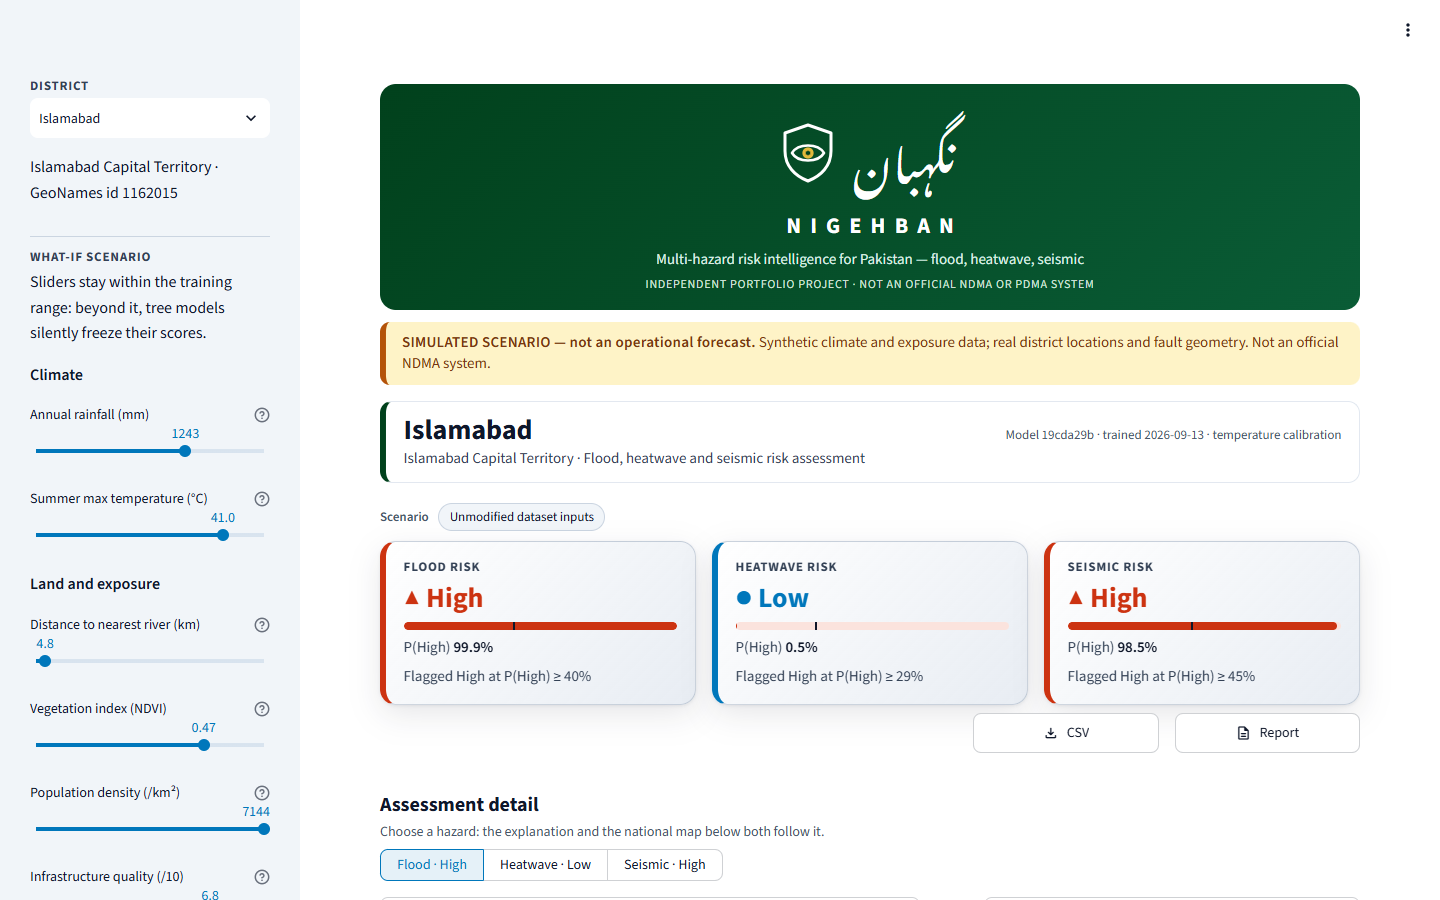
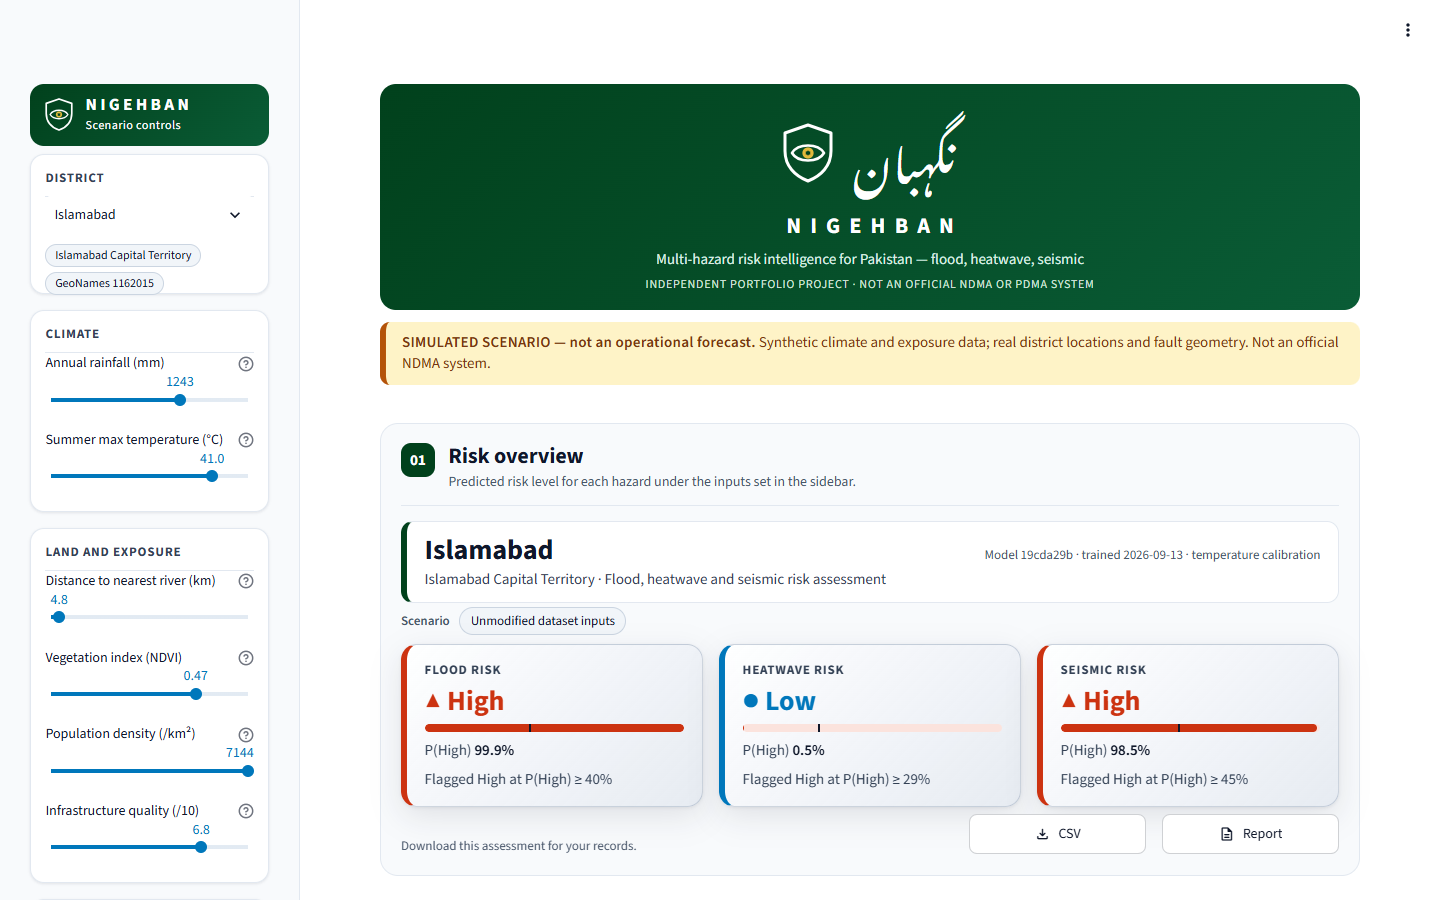
Re-audit fixes: phone hint, heading order, unverified-model alert, fresh screenshots
- Phone-only note pointing to the collapsed sidebar (AUDIT F5.4 claimed one; none existed)
- Single h1 (wordmark), h2 sections, h3 district bar; test that levels never skip
- Model loaded without a trusted digest is now a critical provenance issue
- README screenshots re-rendered from the current app
- AUDIT.md: re-audit table (L1, A1-A7) and checks that passed

diff --git a/ui_theme.py b/ui_theme.py
@@ -331,6 +331,10 @@ def page_css() -> str:
 @media (max-width: 640px) {{ [class*="st-key-panel_"] {{ padding: 0.8rem 0.75rem; }} }}
 [class*="st-key-section_"] .app-header {{ margin-bottom: 0; }}
 [class*="st-key-section_"] [data-testid="stTabs"] [data-baseweb="tab-list"] {{ gap: 0.25rem; }}
+/* Phones: Streamlit collapses the sidebar, so say where the controls are. Hidden on wider screens. */
+.phone-hint {{ display: none; background: {CHIP_BACKGROUND}; border: 1px solid {CHIP_BORDER}; color: {TEXT_PRIMARY};
+  border-radius: 10px; padding: 0.5rem 0.75rem; font-size: 14px; line-height: 1.45; }}
+@media (max-width: 640px) {{ .phone-hint {{ display: block; }} }}
 .toolbar-note {{ color: {TEXT_MUTED}; font-size: {SMALL_FONT_PX}px; padding-top: 0.55rem; }}
 
 /* ---- Sidebar ---- */
@@ -395,7 +399,7 @@ def brand_header_html() -> str:
         f"{emblem_svg()}"
         '<div class="brand-urdu" dir="rtl" lang="ur">نگہبان</div>'
         "</div>"
-        '<div class="brand-latin" lang="en">NIGEHBAN</div>'
+        '<div class="brand-latin" lang="en" role="heading" aria-level="1">NIGEHBAN</div>'
         '<div class="brand-tagline">Multi-hazard risk intelligence for Pakistan — flood, heatwave, seismic</div>'
         '<div class="brand-note">Independent portfolio project · not an official NDMA or PDMA system</div>'
         "</div>"
@@ -407,7 +411,8 @@ def header_html(district: str, province: str, model_label: str) -> str:
     return (
         '<div class="app-header">'
         "<div>"
-        f'<div class="app-title" role="heading" aria-level="1">{html.escape(district)}</div>'
+        # Level 3: page h1 is the Nigehban wordmark, and this bar sits inside the level-2 "Risk overview" section.
+        f'<div class="app-title" role="heading" aria-level="3">{html.escape(district)}</div>'
         f'<div class="app-subtitle">{html.escape(province)} · Flood, heatwave and seismic risk assessment</div>'
         "</div>"
         f'<div class="app-meta">{html.escape(model_label)}</div>'
@@ -447,6 +452,14 @@ def page_section_head_html(number: int, title: str, subtitle: str = "") -> str:
         f'<div class="num" aria-hidden="true">{number:02d}</div>'
         f'<div><div class="title" role="heading" aria-level="2">{html.escape(title)}</div>{sub}</div>'
         "</div>"
+    )
+
+
+def phone_hint_html() -> str:
+    """Phone-only note pointing to the collapsed sidebar (display is controlled by a CSS media query)."""
+    return (
+        '<div class="phone-hint" role="note"><strong>To change the district or inputs,</strong> '
+        "tap the <strong>»</strong> button at the top left to open the controls.</div>"
     )
 
 

diff --git a/tests/test_app_smoke.py b/tests/test_app_smoke.py
@@ -2,6 +2,8 @@
 
 from __future__ import annotations
 
+import itertools
+import re
 from pathlib import Path
 
 import pytest
@@ -26,7 +28,19 @@ def test_app_renders_without_errors(app: AppTest) -> None:
     assert not app.exception
     assert [e.value for e in app.error] == []
     header = next(m for m in _markdown(app) if 'class="app-header"' in m)
-    assert 'class="app-title" role="heading" aria-level="1">Islamabad<' in header
+    assert 'class="app-title" role="heading" aria-level="3">Islamabad<' in header
+
+
+def test_heading_levels_never_skip(app: AppTest) -> None:
+    """One h1 first, then no jump of more than one level (WCAG 1.3.1 heading structure)."""
+    levels = [int(level) for m in _markdown(app) for level in re.findall(r'role="heading" aria-level="(\d)"', m)]
+    assert levels[0] == 1 and levels.count(1) == 1
+    assert all(b - a <= 1 for a, b in itertools.pairwise(levels))
+
+
+def test_phone_hint_points_to_the_sidebar_controls(app: AppTest) -> None:
+    hint = next(m for m in _markdown(app) if 'class="phone-hint"' in m)
+    assert "top left" in hint
 
 
 def test_layout_order_brand_then_banner_then_district(app: AppTest) -> None:

diff --git a/tests/test_risk_engine.py b/tests/test_risk_engine.py
@@ -50,6 +50,19 @@ def test_tampered_model_is_refused_before_unpickling(tmp_path: Path) -> None:
         engine.load_bundle(copy)
 
 
+def test_unverified_model_is_a_critical_provenance_issue(
+    df: pd.DataFrame, data_path: Path, tmp_path: Path, monkeypatch: pytest.MonkeyPatch
+) -> None:
+    """An unpickled model with no trusted digest must be surfaced on the page, not only in the model card."""
+    monkeypatch.delenv("NDMA_MODEL_SHA256", raising=False)
+    copy = tmp_path / "bundle.pkl"
+    shutil.copyfile(engine.default_model_path(), copy)  # no manifest copied
+    unverified = engine.load_bundle(copy)
+    assert not unverified.integrity_verified
+    issues = engine.audit_provenance(unverified, df, engine.file_sha256(data_path))
+    assert any(i.check == "integrity" and i.severity == "critical" for i in issues)
+
+
 def test_legacy_v1_bundle_is_rejected() -> None:
     with pytest.raises(engine.SchemaError, match="schema version"):
         engine.load_bundle(ROOT / "archive" / "v1" / "best_hazard_pipeline_v1.pkl")

diff --git a/risk_engine.py b/risk_engine.py
@@ -613,9 +613,10 @@ def audit_provenance(bundle: ModelBundle, df: pd.DataFrame, data_sha256: str) ->
             )
 
     if not bundle.integrity_verified:
+        # Critical, not info: the pickle was executed without a digest check, so the served model is unproven.
         issues.append(
             ProvenanceIssue(
-                "info",
+                "critical",
                 "integrity",
                 "No trusted SHA-256 digest is configured, so the model file's integrity is unverified.",
             )

diff --git a/app.py b/app.py
@@ -804,6 +804,7 @@ def render_dashboard() -> None:
             ),
             unsafe_allow_html=True,
         )
+        st.markdown(theme.phone_hint_html(), unsafe_allow_html=True)  # static markup only
         st.markdown(theme.header_html(district, assessment.province, model_label), unsafe_allow_html=True)
         if assessment.modified_features:
             chips = []

diff --git a/AUDIT.md b/AUDIT.md
@@ -398,6 +398,21 @@ Each change was driven by a real-browser render (Edge via Playwright at 390px an
 | P2 | Multi-hazard hotspots: districts High for 2+ hazards, current or under the stress scenario, table plus map | 10 districts now, 15 under the default scenario | `tests/test_risk_engine.py::test_hotspots_are_districts_high_for_two_or_more_hazards`, `tests/test_app_smoke.py::test_planning_tools_render_with_hypothetical_labels` |
 | P3 | Browser favicon: the header's SVG emblem on a flag-green tile, rendered to PNG by `scripts/build_favicon.py` and set as `page_icon` | Edge: tab title and icon link served by Streamlit | `tests/test_app_smoke.py::test_favicon_is_the_nigehban_emblem_png` |
 
+### Layout pass and whole-project re-audit (2026-09-14)
+
+| ID | Change or finding | Evidence | Verified by |
+|---|---|---|---|
+| L1 | **Change (user request):** page split into four numbered section bands (01 Risk overview, 02 Assessment detail, 03 Planning ahead, 04 Model and data), content in white panels, sidebar regrouped into brand, District, Climate, Land and exposure, and Scenario cards | Edge at 1440px and 390px: no horizontal overflow | `scripts/check_layout.py` (all viewports pass); 4 new colour pairs in `tests/test_accessibility.py::test_contrast_meets_wcag_aa` |
+| A1 | **Defect (doc vs code):** F5.4 above says phones get "an on-page hint" for the collapsed sidebar; no hint existed in the code. **Fix:** phone-only note (CSS media query, ≤640px) at the top of section 01 | Edge: visible at 390px, hidden at 1440px | `tests/test_app_smoke.py::test_phone_hint_points_to_the_sidebar_controls` |
+| A2 | **Defect (accessibility):** heading order started with a level-2 section title before the level-1 district title. **Fix:** Nigehban wordmark is the single h1, section titles h2, district bar h3 | Edge heading list after fix: NIGEHBAN, Risk overview, district, Assessment detail, … | `tests/test_app_smoke.py::test_heading_levels_never_skip` |
+| A3 | **Defect (security):** a model pickle loaded with no trusted digest was reported only as an `info` provenance issue, so the page looked normal although `joblib.load` had executed an unverified file. **Fix:** raised to `critical`, which shows an error on the page | Unit test loads a copy without its manifest | `tests/test_risk_engine.py::test_unverified_model_is_a_critical_provenance_issue` |
+| A4 | **Defect (docs):** README screenshots predated the Nigehban header and the layout pass. **Fix:** re-rendered from the running app in Edge | `docs/screenshots/*.png` | Inspected by eye |
+| A5 | **Finding, not changed:** hyperparameter search (`train.py::tune`) maximises argmax macro-F1, but the deployed rule is the recall-tuned threshold, so model selection is not aligned with the deployed decision. Reported metrics stay honest (the rule is evaluated on outer folds); aligning the objective needs a retrain and changes every number above | `train.py` `tune()` objective | — |
+| A6 | **Finding, not changed:** the deployed High threshold is chosen on out-of-fold predictions of hyperparameters that were tuned on all 150 rows, so the threshold itself is mildly optimistic. It does not affect any reported metric (nested CV picks its own thresholds per outer fold) | `train.py::train_all` | — |
+| A7 | **Confirmed resolved:** the note after U7 (temperature moving seismic P(High)) was fixed by N1; left in place as the historical record | Edge: Gwadar at maximum temperature, Seismic card ■ +0.0 pts | `tests/test_risk_engine.py::test_moving_unrelated_sliders_leaves_seismic_unchanged` |
+
+Re-audit checks that passed with no change: ruff lint and format on all 20 files; 123 tests including slow training tests; `generate_data.py --check` reproduces the committed CSV byte-for-byte; installed library versions equal the `requirements.txt` pins; README metric tables equal `models/metrics.json`; nested CV keeps the outer test fold out of tuning, calibration, and threshold choice; no secrets tracked by git; Edge session with district change and slider at maximum logged no console errors, failed requests, or exceptions.
+
 ### Requested items that cannot be completed from repository data
 
 | Item | Why | Smallest real input needed |

diff --git a/README.md b/README.md
@@ -202,7 +202,7 @@ Both tools label themselves **HYPOTHETICAL SCENARIO — what-if analysis, not a 
 
 **A limit of the specified palette, and how the UI handles it.** Checked with a colour-separation validator, Medium `#CC6677` and High `#CC3311` are only ΔE 11.8 apart for *normal* vision (the floor for telling marks apart by colour is 15). On the KPI tiles that is acceptable, because the level word and shape are always printed. On the map, where dots sit side by side, it is not, so the map uses emphasis encoding instead: High in `#CC3311`, every other district in slate `#64748B` (ΔE 22.5 normal vision, 16.2 under colour-blindness simulation), with a legend and a table view.
 
-**Responsive layout, what was actually tested:** [scripts/check_layout.py](scripts/check_layout.py) rendered the app in Microsoft Edge (headless, via Playwright) at 360×740, 390×844, 768×1024, and 1440×900. It measured no horizontal overflow at any width, KPI cards stacked in one column on both phone sizes, a computed level-word size of 28px/700 everywhere, and both charts rendered. Screenshots at 390px and 1440px were inspected by eye, which led to: shortening the waterfall's labels, moving its base and total values into the row labels, hiding Plotly's toolbar, clearing Streamlit's toolbar from the header, placing export buttons after the KPI tiles on phones, and giving the seven-column district profile the full width. **Not tested:** real iOS/Android devices, Safari/WebKit, screen readers, zoom above 100%, and dark mode. On phones the district selector and sliders sit behind Streamlit's sidebar toggle.
+**Responsive layout, what was actually tested:** [scripts/check_layout.py](scripts/check_layout.py) rendered the app in Microsoft Edge (headless, via Playwright) at 360×740, 390×844, 768×1024, and 1440×900. It measured no horizontal overflow at any width, KPI cards stacked in one column on both phone sizes, a computed level-word size of 28px/700 everywhere, and both charts rendered. Screenshots at 390px and 1440px were inspected by eye, which led to: shortening the waterfall's labels, moving its base and total values into the row labels, hiding Plotly's toolbar, clearing Streamlit's toolbar from the header, placing export buttons after the KPI tiles on phones, and giving the seven-column district profile the full width. **Not tested:** real iOS/Android devices, Safari/WebKit, screen readers, zoom above 100%, and dark mode. On phones the district selector and sliders sit behind Streamlit's sidebar toggle; a phone-only note at the top of the page says where to find them.
 
 ---
 
